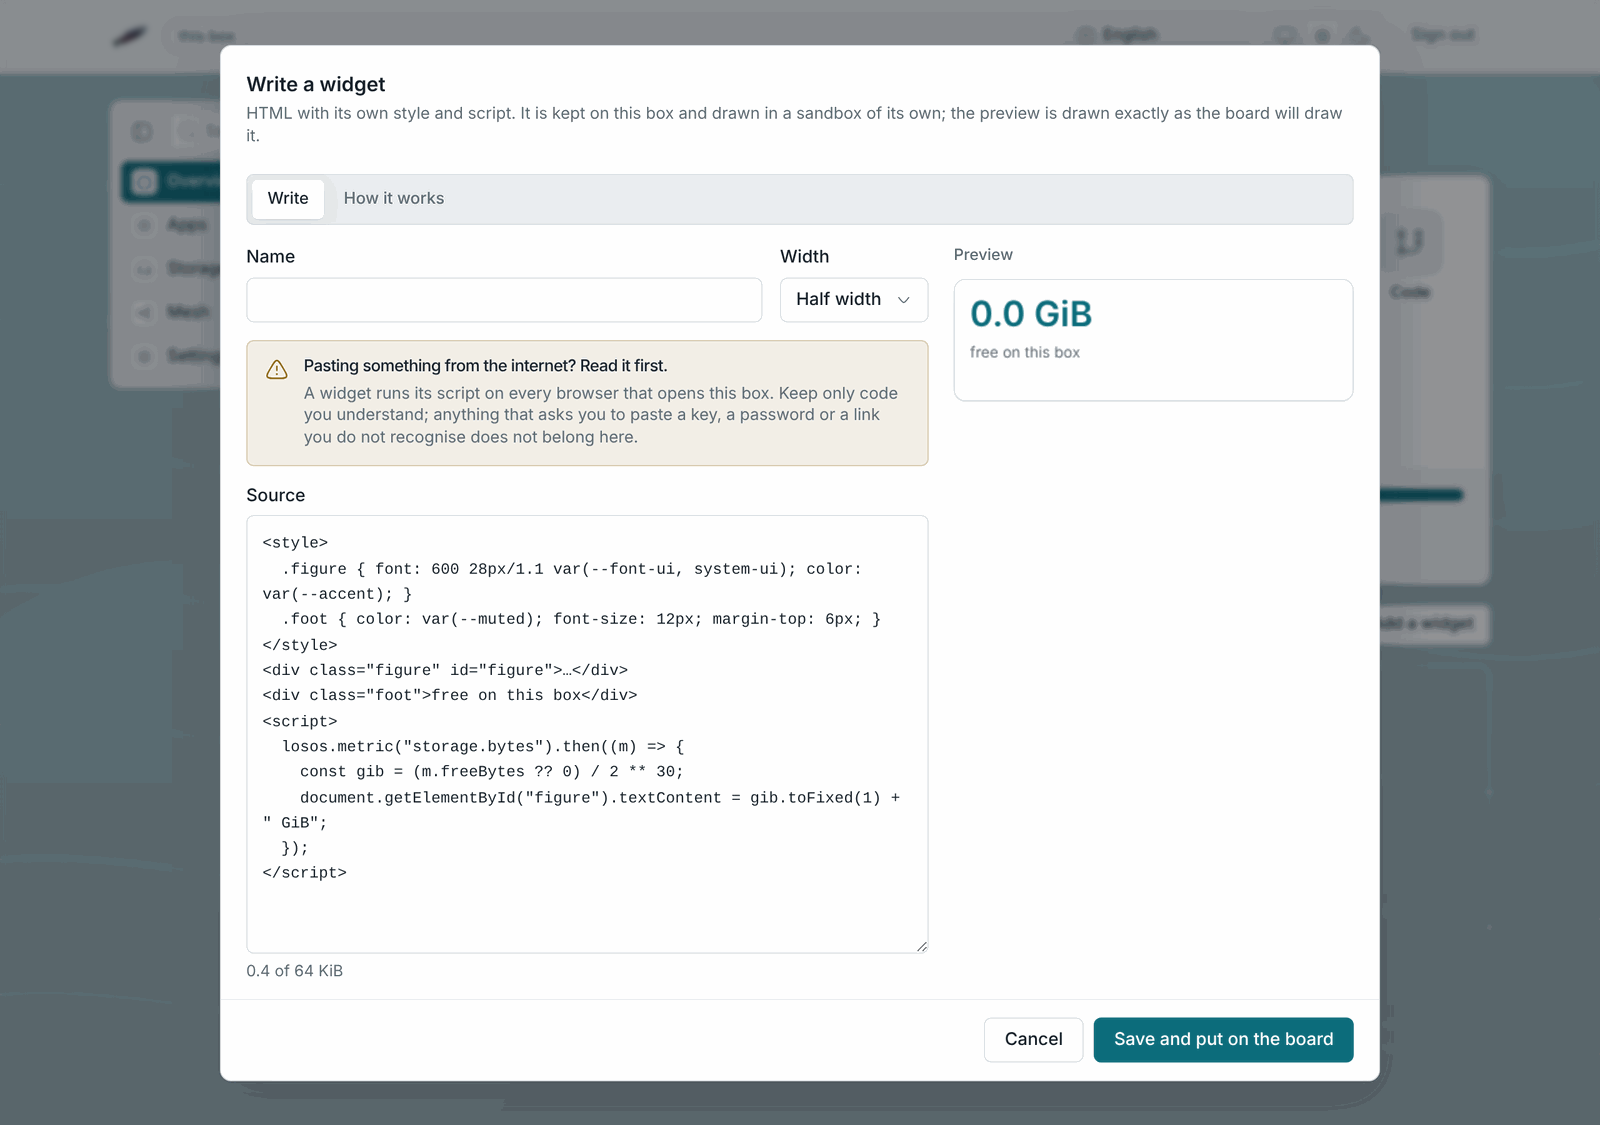
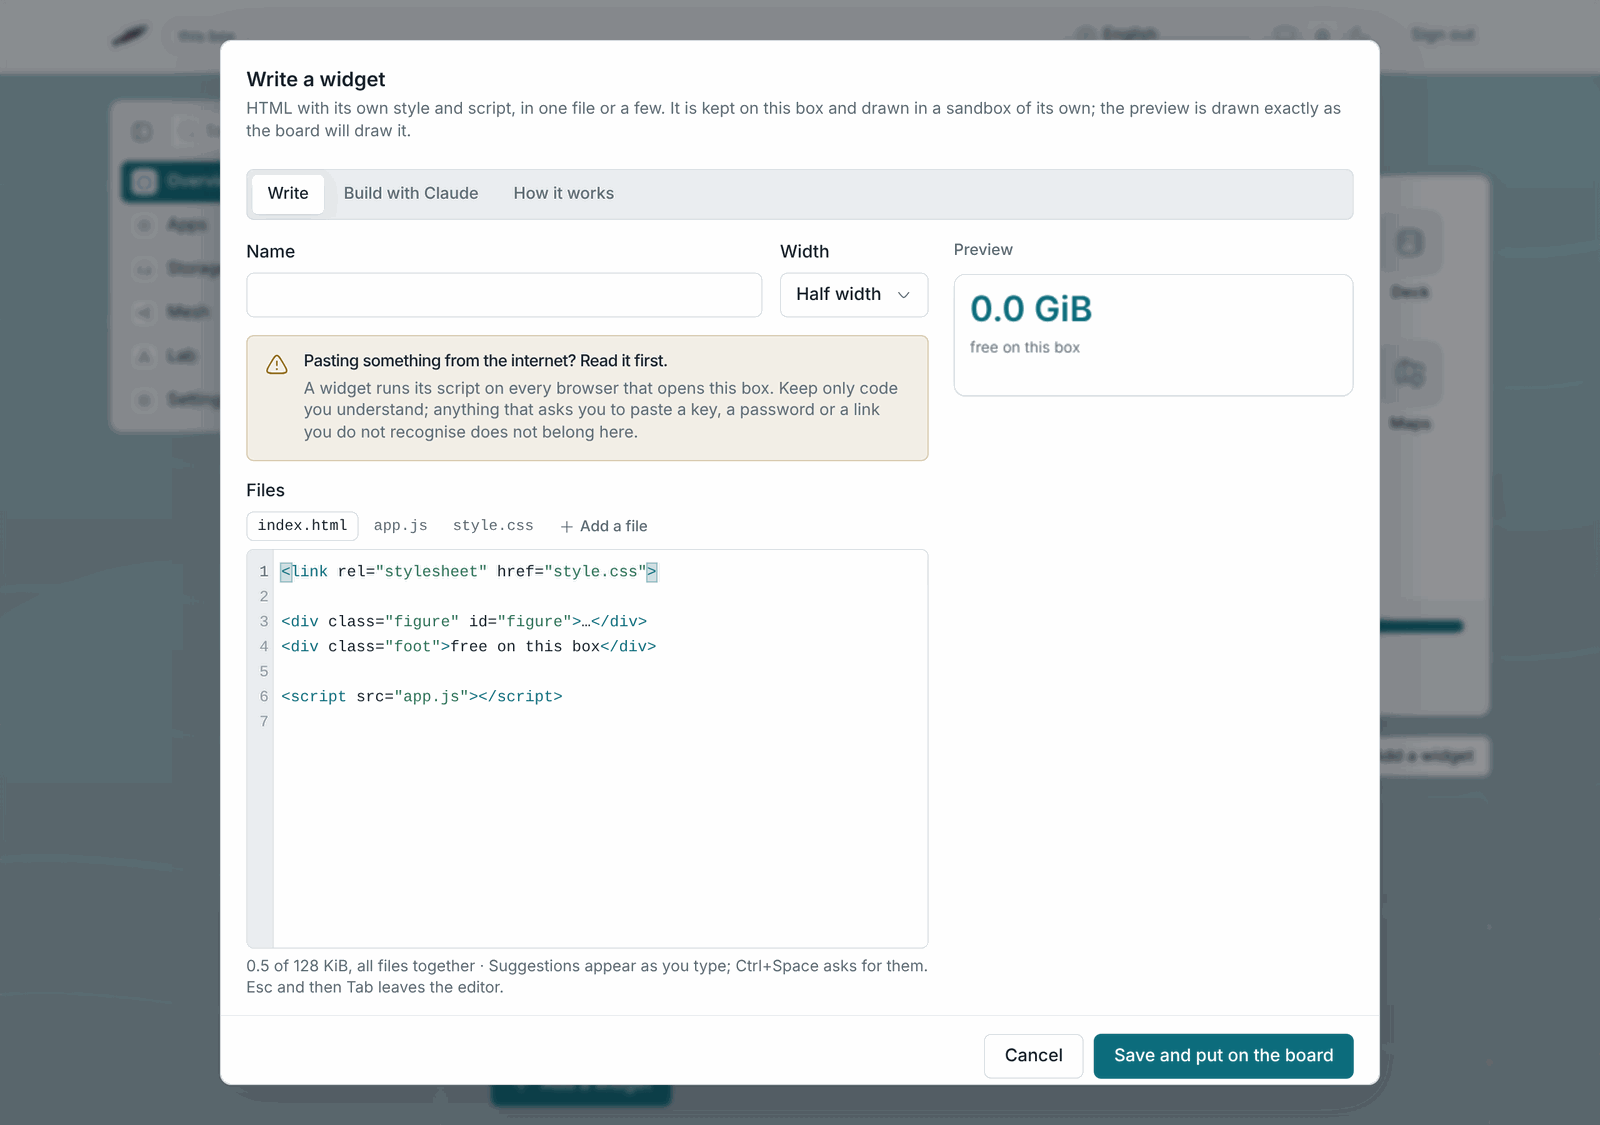
Document widget files, and keep the editor checks steady
Wiki, handbook and the wire schema describe a widget as files. The
frame drops the DOM call from a script's syntax error. Markdown files
are edited as plain text, which keeps the editor chunk smaller, and the
admin UI's npmDepsHash follows the lock file.

diff --git a/admin-ui/app/src/i18n/look.ts b/admin-ui/app/src/i18n/look.ts
@@ -266,7 +266,7 @@ export default defineMessages({
   "look.editor.pasted.body": {
     en: "A widget runs its script on every browser that opens this box. Keep only code you understand; anything that asks you to paste a key, a password or a link you do not recognise does not belong here.",
     sk: "Widget spúšťa svoj skript v každom prehliadači, ktorý otvorí tento box. Nechajte si len kód, ktorému rozumiete; čokoľvek, čo od vás žiada vložiť kľúč, heslo alebo odkaz, ktorý nepoznáte, sem nepatrí.",
-    de: "Ein Widget führt sein Skript in jedem Browser aus, der diese Box öffnet. Behalten Sie nur Code, den Sie verstehen; alles, was Sie auffordert, einen Schlüssel, ein Passwort oder einen unbekannten Link einzufügen, gehört nicht hierher.",
+    de: "Ein Widget führt sein Skript in jedem Browser aus, der diese Box öffnet. Behalte nur Code, den du verstehst; alles, was dich auffordert, einen Schlüssel, ein Passwort oder einen unbekannten Link einzufügen, gehört nicht hierher.",
   },
   "look.editor.sourceHint": {
     en: "{used} of {max} KiB, all files together",

diff --git a/admin-ui/app/public/widget-frame/index.html b/admin-ui/app/public/widget-frame/index.html
@@ -158,7 +158,14 @@
         }
 
         // ── Errors ────────────────────────────────────────────────────
-        const sayError = (message) => send({ losos: "error", message: String(message) });
+        // A script's syntax error surfaces through the DOM call that inserted
+        // it ("Failed to execute 'replaceChildren' on 'Element': ..."); the
+        // owner wants the error, not the call.
+        const sayError = (message) =>
+          send({
+            losos: "error",
+            message: String(message).replace(/Failed to execute '\w+' on '\w+': /, ""),
+          });
         window.addEventListener("error", (event) => {
           sayError(event.message || "The widget threw an error.");
         });

diff --git a/admin-ui/app/src/widgets/files.ts b/admin-ui/app/src/widgets/files.ts
@@ -13,7 +13,7 @@ import type { WidgetFile } from "@/lib/api";
 export const ENTRY_FILE = "index.html";
 
 /** What the editor highlights and completes a file as. */
-export type FileLanguage = "html" | "css" | "javascript" | "json" | "markdown" | "text";
+export type FileLanguage = "html" | "css" | "javascript" | "json" | "text";
 
 export function languageOf(name: string): FileLanguage {
   const kind = name.slice(name.lastIndexOf(".") + 1);
@@ -28,8 +28,6 @@ export function languageOf(name: string): FileLanguage {
       return "javascript";
     case "json":
       return "json";
-    case "md":
-      return "markdown";
     default:
       return "text";
   }

diff --git a/admin-ui/app/src/components/code-editor.tsx b/admin-ui/app/src/components/code-editor.tsx
@@ -27,7 +27,6 @@ import { css, cssLanguage } from "@codemirror/lang-css";
 import { html, htmlLanguage } from "@codemirror/lang-html";
 import { javascript, javascriptLanguage } from "@codemirror/lang-javascript";
 import { json } from "@codemirror/lang-json";
-import { markdown } from "@codemirror/lang-markdown";
 import {
   bracketMatching,
   HighlightStyle,
@@ -135,8 +134,6 @@ function languageExtension(language: FileLanguage, files: () => readonly string[
       return [javascript(), script];
     case "json":
       return json();
-    case "markdown":
-      return markdown();
     default:
       return [];
   }

diff --git a/wiki/Administration-de.md b/wiki/Administration-de.md
@@ -64,6 +64,20 @@ Messwerten der Box zusammen. *Eins schreiben* nimmt eigenes HTML, eigenen
 Stil und eigenes Skript an, die auf der Box gespeichert und in diesem
 Bereich aufgelistet werden, wo du sie bearbeiten und löschen kannst.
 
+Ein Widget besteht aus ein paar Dateien. Es beginnt in `index.html`, das die
+übrigen beim Namen einbindet, etwa `<link rel="stylesheet" href="style.css">`,
+`<script src="app.js"></script>` oder `<img src="dot.svg">`, und
+`fetch("data.json")` liest eine eigene Datei. Ein neues Widget beginnt mit
+`index.html`, `style.css` und `app.js`; **Datei hinzufügen** legt eine
+weitere an (`.html`, `.css`, `.js`, `.json`, `.svg`, `.txt` oder `.md`).
+Skripte sind klassische Skripte: Mehrere lädst du mit mehreren
+`<script src>`-Tags in Reihenfolge, nicht mit `import` untereinander.
+
+Der Editor ergänzt beim Tippen: das `losos`-Objekt und seine Mitglieder, die
+Namen der Messwerte in `losos.metric("`, die Farbvariablen nach `var(--` und
+die Dateinamen des Widgets überall, wo eine Datei genannt wird. Strg+Leertaste
+zeigt überall Vorschläge.
+
 Ein selbst geschriebenes Widget läuft in einem Sandbox-Frame, einem eigenen
 Origin ohne Zugriff auf die Admin-Seiten, das Admin-Token oder die API. Mit
 der Box spricht es über ein kleines `losos`-Objekt, das der Frame
@@ -76,15 +90,19 @@ bereitstellt:
 | `losos.palette`                | Die Farben der Box, auch als CSS-Variablen gesetzt (`var(--accent)` funktioniert). |
 | `losos.onTheme(fn)`            | Wird aufgerufen, wann immer der Eigentümer das Theme wechselt.        |
 | `losos.resize()`               | Bittet die Übersicht, die Kachel nach einer Änderung, die sie nicht sieht, neu zu vermessen. |
+| `losos.files`                  | Die Namen der Dateien des Widgets.                                   |
+| `losos.file(name)`             | Eine Datei des Widgets als Text.                                     |
+| `losos.asset(name)`            | Eine Datei des Widgets als `data:`-URL, für ein Bild, das ein Skript setzt. |
 
 Der Tab **So funktioniert es** im Editor wiederholt dies mit einem Beispiel. Seine Vorschau
 ist der echte Frame, was sie zeigt, zeigt also auch die Kachel. Ein Widget
 kann Daten aus dem Internet abrufen (etwa eine Wetterkachel), aber nicht von
-der Box. Die Grenze liegt bei 24 Widgets zu je 64 KiB.
+der Box. Die Grenze liegt bei 24 Widgets mit je höchstens 12 Dateien und
+zusammen 128 KiB.
 
 Der Editor hat auch einen Tab **Mit Claude bauen**, in dem Claude das Widget
-nach einer Beschreibung schreibt und es in das Quelltextfeld legt, damit Sie
-es vor dem Speichern lesen. Bezahlt wird pro Bau aus einem vorausbezahlten
+nach einer Beschreibung schreibt und seine Dateien in den Editor legt, damit
+du sie vor dem Speichern liest. Bezahlt wird pro Bau aus einem vorausbezahlten
 Guthaben, und es braucht einen Edge, der ihn anbietet; siehe
 [Widget-Baukasten](Widget-Builder-de).
 

diff --git a/wiki/Administration-sk.md b/wiki/Administration-sk.md
@@ -60,6 +60,19 @@ vlastný. *Zostaviť* poskladá widget z hodnôt zariadenia bez akéhokoľvek
 kódu. *Napísať* prijme vlastné HTML, štýl a skript, ktoré sa držia na
 zariadení a sú vypísané na tomto paneli, kde ich môžete upraviť a zmazať.
 
+Widget tvorí niekoľko súborov. Začína sa v `index.html`, ktorý ostatné
+prepája menom, napríklad `<link rel="stylesheet" href="style.css">`,
+`<script src="app.js"></script>` alebo `<img src="dot.svg">`, a
+`fetch("data.json")` prečíta jeden z vlastných súborov. Nový widget začína
+súbormi `index.html`, `style.css` a `app.js`; **Pridať súbor** pridá ďalší
+(`.html`, `.css`, `.js`, `.json`, `.svg`, `.txt` alebo `.md`). Skripty sú
+klasické: viac ich načítate viacerými značkami `<script src>` v poradí, nie
+cez `import` medzi nimi.
+
+Editor počas písania dopĺňa: objekt `losos` a jeho členy, mená hodnôt vnútri
+`losos.metric("`, farebné premenné po `var(--` a mená súborov widgetu všade,
+kde sa súbor menuje. Ctrl+Medzerník ponúkne návrhy kdekoľvek.
+
 Ručne písaný widget beží v sandboxovanom rámci, vo vlastnom origine bez
 prístupu k administrátorským stránkam, admin tokenu či API. So zariadením
 komunikuje cez malý objekt `losos`, ktorý rámec poskytuje:
@@ -71,14 +84,17 @@ komunikuje cez malý objekt `losos`, ktorý rámec poskytuje:
 | `losos.palette`                | Farby zariadenia, nastavené aj ako CSS premenné (`var(--accent)` funguje). |
 | `losos.onTheme(fn)`            | Volá sa vždy, keď vlastník prepne tému.                               |
 | `losos.resize()`               | Požiada nástenku, aby dlaždicu znovu premerala po zmene, ktorú nevidí. |
+| `losos.files`                  | Mená súborov widgetu.                                                 |
+| `losos.file(name)`             | Jeden zo súborov widgetu ako text.                                    |
+| `losos.asset(name)`            | Jeden zo súborov widgetu ako `data:` URL, pre obrázok nastavený zo skriptu. |
 
 Karta **Ako to funguje** v editore to zopakuje s príkladom. Jej náhľad je skutočný
 rámec, takže to, čo ukazuje, ukáže aj dlaždica. Widget môže sťahovať z
 internetu (napríklad dlaždica s počasím), ale nie zo zariadenia. Limit je
-24 widgetov po 64 KiB.
+24 widgetov, každý najviac 12 súborov a spolu 128 KiB.
 
 Editor má aj kartu **Vytvoriť s Claude**, kde Claude napíše widget podľa
-opisu a vloží ho do poľa so zdrojom, aby ste si ho pred uložením prečítali.
+opisu a vloží jeho súbory do editora, aby ste si ich pred uložením prečítali.
 Platí sa za každú tvorbu z predplateného zostatku a potrebuje edge, ktorý ju
 ponúka; pozri [Tvorca widgetov](Widget-Builder-sk).
 

diff --git a/wiki/Administration.md b/wiki/Administration.md
@@ -61,6 +61,20 @@ own. *Build one* composes a widget from the box's readings without any code.
 *Write one* takes HTML, style and script of your own, kept on the box and
 listed on this pane, where you can edit and delete it.
 
+A widget is a few files. `index.html` is where it starts; it links the rest
+by name, as in `<link rel="stylesheet" href="style.css">`,
+`<script src="app.js"></script>` or `<img src="dot.svg">`, and
+`fetch("data.json")` reads a file of its own. A new widget starts as
+`index.html`, `style.css` and `app.js`; **Add a file** adds another (`.html`,
+`.css`, `.js`, `.json`, `.svg`, `.txt` or `.md`). Scripts are classic
+scripts: load several with several `<script src>` tags, in order, rather
+than `import` between them.
+
+The editor completes as you type: the `losos` object and its members, the
+names of the readings inside `losos.metric("`, the colour variables after
+`var(--`, and the widget's own file names wherever a file is named. Press
+Ctrl+Space to ask for suggestions anywhere.
+
 A hand-written widget runs inside a sandboxed frame, an origin of its own
 with no access to the admin pages, the admin token or the API. It talks to
 the box through a small `losos` object the frame provides:
@@ -72,14 +86,17 @@ the box through a small `losos` object the frame provides:
 | `losos.palette`                | The box's colours, also set as CSS variables (`var(--accent)` works). |
 | `losos.onTheme(fn)`            | Called whenever the owner switches the theme.                         |
 | `losos.resize()`               | Ask the board to re-measure the tile after a change it cannot see.    |
+| `losos.files`                  | The names of the widget's files.                                      |
+| `losos.file(name)`             | One of the widget's files, as text.                                   |
+| `losos.asset(name)`            | One of the widget's files as a `data:` URL, for an image set from script. |
 
 The editor's **How it works** tab repeats this with an example. Its preview is the
 real frame, so what it shows is what the tile will show. A widget can fetch
-the internet (a weather tile, say) but not the box. The limit is 24 widgets
-of 64 KiB each.
+the internet (a weather tile, say) but not the box. The limit is 24 widgets,
+each at most 12 files and 128 KiB together.
 
 The editor also has a **Build with Claude** tab, where Claude writes the
-widget from a description and puts it in the source field for you to read
+widget from a description and puts its files in the editor for you to read
 before saving. It is paid per build from a prepaid balance and needs an edge
 that offers it; see [Widget builder](Widget-Builder).
 

diff --git a/wiki/Widget-Builder-de.md b/wiki/Widget-Builder-de.md
@@ -4,9 +4,9 @@
 
 Der Besitzer beschreibt ein Widget in eigenen Worten, und Claude schreibt es.
 Der Widget-Editor (**Widget hinzufügen**, dann **Eins schreiben**) hat neben
-**Schreiben** einen Tab **Mit Claude bauen**. Das Ergebnis landet im
-Quelltextfeld des Editors, wo der Besitzer es lesen, in der Vorschau
-ausprobieren und ändern kann. Nichts wird gespeichert, bevor der Besitzer auf
+**Schreiben** einen Tab **Mit Claude bauen**. Die Dateien des Widgets landen
+im Editor, wo der Besitzer sie lesen, in der Vorschau ausprobieren und
+ändern kann. Nichts wird gespeichert, bevor der Besitzer auf
 Speichern drückt, und ein Widget von Claude läuft im selben abgeschotteten
 Rahmen wie ein selbst geschriebenes (siehe
 [Administration](Administration-de#selbst-geschriebene-widgets)).
@@ -30,9 +30,12 @@ einen Agenten mit festem Systemprompt und dem Widget-Vertrag, den der
 Betreiber einmal anlegt, und pro Bau einen Cloud-Container, den Anthropic
 hostet. Für jeden Bau öffnet der Edge eine Sitzung mit der Beschreibung des
 Besitzers, der Sprache der Seite und, wenn der Besitzer eine Änderung
-wünscht, dem aktuellen Quelltext. Der Agent schreibt `widget.html` und eine
-kurze `summary.txt`; wenn die Sitzung ruht, lädt der Edge beide herunter,
-löscht Sitzung und Dateien und gibt den Quelltext an die Box.
+wünscht, den aktuellen Dateien des Widgets. Der Agent schreibt `index.html`,
+die Dateien, die es einbindet (Stil, Skript, Daten), und eine kurze
+`summary.txt`. Wenn die Sitzung ruht, lädt der Edge sie herunter, löscht
+Sitzung und Dateien und gibt die Dateien des Widgets an die Box. Dateien mit
+einem Namen, den ein Widget nicht haben kann, lässt er weg, und ein Widget
+über 12 Dateien oder 128 KiB lehnt er ab wie ein selbst geschriebenes.
 
 Der Agent hat in seinem eigenen Container Werkzeuge für Dateien und Shell und
 keinen Webzugriff. Sein Container erreicht die Box nicht. Ein Bau, der länger

diff --git a/handbook/docs/types/widget-types.md b/handbook/docs/types/widget-types.md
@@ -42,8 +42,10 @@ remember anything between runs.
 
 ## Written by hand
 
-**Write one** takes HTML, style and script of your own. The box stores the
-widget, so every browser that opens the box sees it. It is listed on
+**Write one** takes HTML, style and script of your own, in a few files:
+`index.html` and the stylesheets, scripts, pictures and data it links by
+name. The box stores the widget, so every browser that opens the box sees
+it. It is listed on
 **Settings → Look**, where you can edit and delete it.
 
 ![Write one: the source of a hand-written widget beside its live preview in the sandboxed frame.](../img/widget-write-one.png)
@@ -60,13 +62,16 @@ provides:
 | `losos.palette`             | the box's colours, also set as CSS variables (`var(--accent)` works)           |
 | `losos.onTheme(fn)`         | called whenever the owner switches the theme                                  |
 | `losos.resize()`            | asks the board to re-measure the tile                                         |
+| `losos.files`               | the names of the widget's files                                               |
+| `losos.file(name)`          | one of the widget's files, as text                                            |
+| `losos.asset(name)`         | one of the widget's files as a `data:` URL, for an image set from script      |
 
 The editor's **Help** tab repeats this with an example. Its preview is the
 real frame, so the tile shows exactly what the preview shows. A hand-written
 widget may fetch from the internet, for a weather tile say, but it may not
 reach the box's API. It runs in every browser that opens the box, so read
 anything you paste from the internet before you keep it. The limit is 24
-widgets of 64 KiB each.
+widgets, each at most 12 files and 128 KiB together.
 
 
 See [Look and widgets](../manual/look-and-widgets) for the board itself,

diff --git a/wiki/Widget-Builder.md b/wiki/Widget-Builder.md
@@ -4,8 +4,8 @@
 
 An owner describes a widget in plain words and Claude writes it. The
 widget editor (**Add a widget**, then **Write one**) has a **Build with
-Claude** tab next to **Write**. The result lands in the editor's source
-field, where the owner can read it, try it in the preview and change it.
+Claude** tab next to **Write**. The widget's files land in the editor,
+where the owner can read them, try them in the preview and change them.
 Nothing is saved until the owner presses Save, and a widget Claude wrote
 runs in the same sandboxed frame as one written by hand (see
 [Administration](Administration#widgets-written-by-hand)).
@@ -28,10 +28,12 @@ The edge runs a [Claude Managed Agent](https://platform.claude.com/docs/en/manag
 an agent with a fixed system prompt and the widget contract, made once by
 the operator, and a cloud container per build that Anthropic hosts. For each
 build the edge opens a session with the owner's description, the page's
-language and, when the owner asks for a change, the current source. The
-agent writes `widget.html` and a short `summary.txt`; the edge downloads
-both when the session goes idle, deletes the session and its files, and
-hands the source to the box.
+language and, when the owner asks for a change, the widget's current files.
+The agent writes `index.html`, any files it links (a stylesheet, a script,
+data) and a short `summary.txt`. When the session goes idle the edge
+downloads them, deletes the session and its files, and hands the widget's
+files to the box. Files with names a widget cannot have are left out, and a
+widget over 12 files or 128 KiB is refused like one typed by hand.
 
 The agent has file and shell tools in its own container and no web access.
 Its container cannot reach the box. Builds that run longer than 15 minutes

diff --git a/wiki/Widget-Builder-sk.md b/wiki/Widget-Builder-sk.md
@@ -4,8 +4,8 @@
 
 Vlastník opíše widget bežnými slovami a Claude ho napíše. Editor widgetov
 (**Pridať widget**, potom **Napísať**) má vedľa karty **Písať** kartu
-**Vytvoriť s Claude**. Výsledok sa objaví v poli so zdrojom v editore, kde si
-ho vlastník môže prečítať, vyskúšať v náhľade a upraviť. Nič sa neuloží, kým
+**Vytvoriť s Claude**. Súbory widgetu sa objavia v editore, kde si ich
+vlastník môže prečítať, vyskúšať v náhľade a upraviť. Nič sa neuloží, kým
 vlastník nestlačí Uložiť, a widget od Claude beží v rovnakom sandboxovanom
 rámci ako ručne písaný (pozri [Správa](Administration-sk#ručne-písané-widgety)).
 
@@ -26,9 +26,11 @@ Edge spúšťa [Claude Managed Agent](https://platform.claude.com/docs/en/manage
 agenta s pevným systémovým promptom a zmluvou widgetu, ktorého operátor
 vytvorí raz, a na každú tvorbu cloudový kontajner, ktorý hostí Anthropic. Pre
 každú tvorbu edge otvorí reláciu s opisom od vlastníka, jazykom stránky a pri
-úprave aj s aktuálnym zdrojom. Agent zapíše `widget.html` a krátky
-`summary.txt`; keď relácia prejde do nečinnosti, edge oba súbory stiahne,
-reláciu aj súbory zmaže a zdroj odovzdá boxu.
+úprave aj s aktuálnymi súbormi widgetu. Agent zapíše `index.html`, súbory,
+ktoré prepája (štýl, skript, dáta), a krátky `summary.txt`. Keď relácia
+prejde do nečinnosti, edge ich stiahne, reláciu aj súbory zmaže a súbory
+widgetu odovzdá boxu. Súbory s menom, aké widget mať nemôže, vynechá, a
+widget nad 12 súborov alebo 128 KiB odmietne rovnako ako ručne písaný.
 
 Agent má vo vlastnom kontajneri nástroje na súbory a shell a nemá prístup na
 web. Jeho kontajner sa k boxu nedostane. Tvorba, ktorá beží dlhšie ako 15

diff --git a/handbook/docs/manual/look-and-widgets.md b/handbook/docs/manual/look-and-widgets.md
@@ -34,16 +34,24 @@ box. A change takes effect as soon as you save it, with no rebuild.
 
 ## Writing a widget
 
-**Write one**, in the gallery or on the Look pane, opens an editor with
-Source, a live preview and a Help tab. The preview is the real sandboxed frame. The
+**Write one**, in the gallery or on the Look pane, opens an editor with the
+widget's files, a live preview and a Help tab. The preview is the real
+sandboxed frame. The
 widget gets the box's readings and colours through the `losos` object listed
 on the [widget types](../types/widget-types#written-by-hand) page, and
 nothing else. It has no admin key, no API and no access to the page around
 it. It may fetch from the internet.
 
-![The widget editor: Source on the left, the live preview in the real sandboxed frame on the right, and the Help tab.](../img/widget-write-one.png)
+A new widget starts as three files: `index.html`, which links `style.css`
+and `app.js`. **Add a file** adds another, such as `data.json` for the
+script to `fetch` or `dot.svg` for an `<img>`. The editor suggests as you
+type: the `losos` object, the names of the readings, the box's colour
+variables after `var(--` and the widget's own file names. Ctrl+Space asks
+for suggestions anywhere.
+
+![The widget editor: the files and their code on the left, the live preview in the real sandboxed frame on the right, and the Help tab.](../img/widget-write-one.png)
 
 A hand-written widget runs in every browser that opens the box. Read
 anything you paste from the internet before you keep it, as the note above
-Source says.
+the editor says.
 
